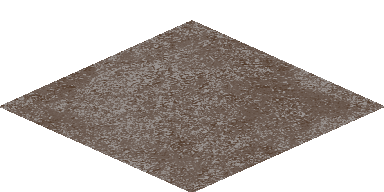
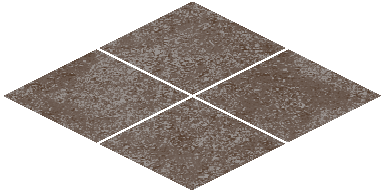
Adding ground

Changed region(s): [[0.0, 0.0, 1.0, 1.0]]

diff --git a/src/game/WorldRenderer.ts b/src/game/WorldRenderer.ts
@@ -2,8 +2,21 @@ import { Actor } from "../engine/Actor.ts";
 import { Behaviour } from "../engine/Behaviour.ts";
 import { Time } from "../engine/Engine.ts";
 import { Spritesheet } from "../engine/Spritesheet.ts";
+import { Vec2 } from "../engine/Vec2.ts";
 import { Vec3 } from "../engine/Vec3.ts";
+import { loadSpritesheet } from "./assets.ts";
 import { World } from "./World.ts";
+
+const [ground, coal, gold, steel] = await Promise.all(
+    ["Ground", "Coal_2D", "Gold_2D", "Steel_2D"]
+        .map(async (n) =>
+            await loadSpritesheet(
+                `/static/${n}.png`,
+                new Vec2(384, 192),
+                new Vec2(384 / 2, 192),
+            )
+        ),
+);
 
 export class WorldRenderer extends Behaviour {
     constructor(
@@ -17,22 +30,14 @@ export class WorldRenderer extends Behaviour {
         const { renderer } = actor;
         if (!renderer) return;
 
-        for (let x = 0; x < this.world.size.x; x += 1) {
-            for (let y = 0; y < this.world.size.y; y += 1) {
-                // for (let z = -1; z < this.world.grid[x][y].length; z++) {
+        for (let x = 0; x < this.world.size.x; x += 2) {
+            for (let y = 0; y < this.world.size.y; y += 2) {
                 const block = this.world.grid[x][y][-1];
-                if (block) {
-                    if (block instanceof Actor) {
-                        //
-                    } else {
-                        renderer.renderSprite(
-                            this.tiles,
-                            block.spriteIndex,
-                            new Vec3(x, y, -1),
-                        );
-                    }
-                }
-                // }
+                renderer.renderSprite(
+                    ground,
+                    0,
+                    new Vec3(x, y, -1),
+                );
             }
         }
     }

diff --git a/src/game/Interactive.ts b/src/game/Interactive.ts
@@ -41,8 +41,13 @@ export function addInteraction(canvas: HTMLCanvasElement, world: World) {
                 return pos.x === worldPos.x &&
                     pos.y === worldPos.y;
             });
+            const shop = ALL_SHOPS.find((s) => {
+                const pos = s.position.translation;
+                return pos.x === worldPos.x &&
+                    pos.y === worldPos.y;
+            });
             if (
-                Interactive.current?.dropping && newActors.length < 2
+                Interactive.current?.dropping && newActors.length < 2 && !shop
             ) {
                 Interactive.current = undefined;
                 canvas.style.cursor = "unset";

diff --git a/src/game/main.ts b/src/game/main.ts
@@ -84,7 +84,7 @@ new Engine(ctx, {
         w.addBehaviour(
             new WorldRenderer(
                 world,
-                sheets["/static/debug-roof.png"],
+                sheets["/static/Coal_2D.png"],
             ),
         );
         addInteraction(ctx.canvas, world); // Event listeners
